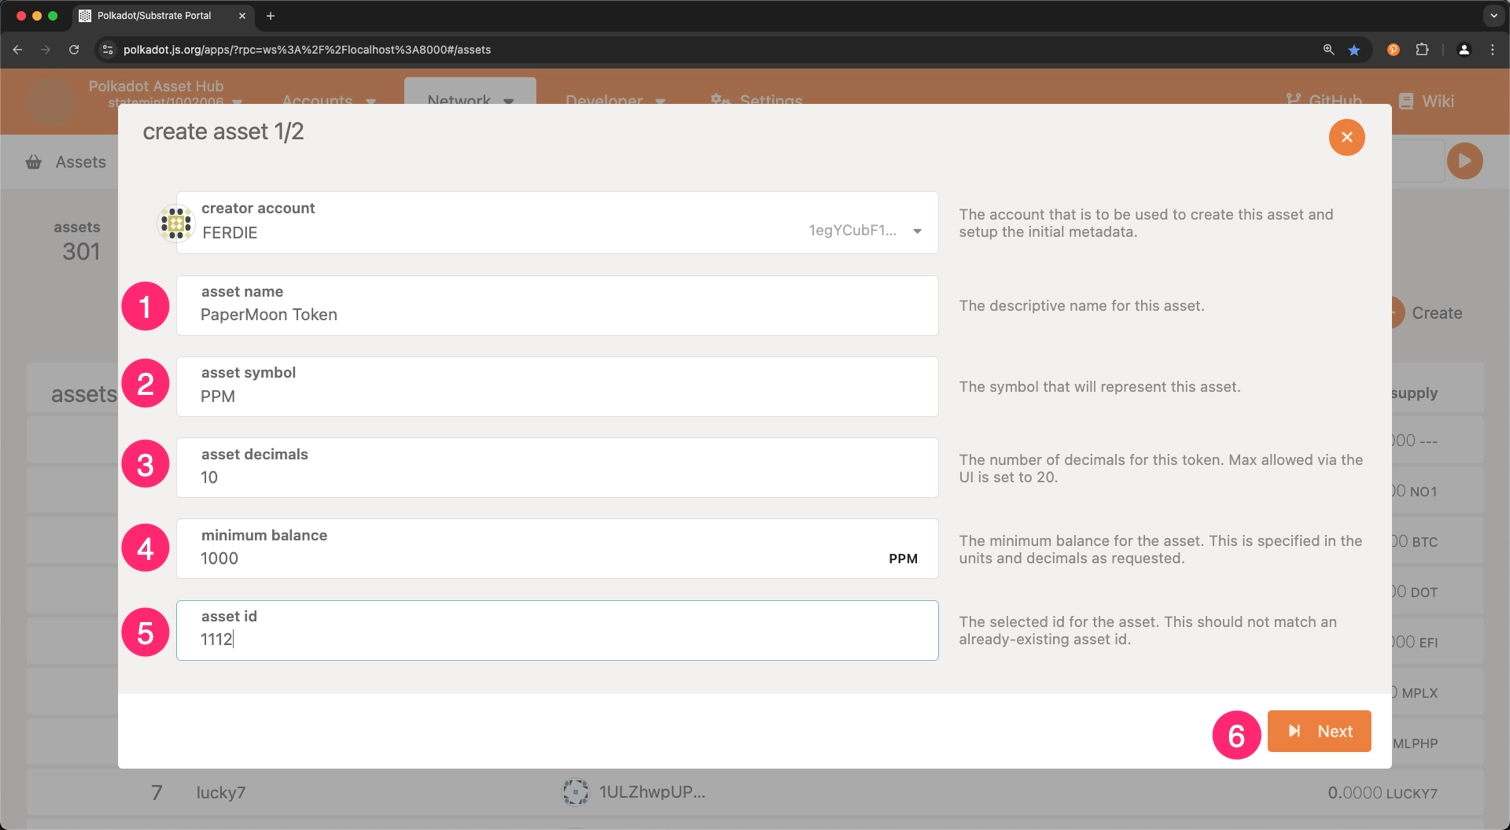
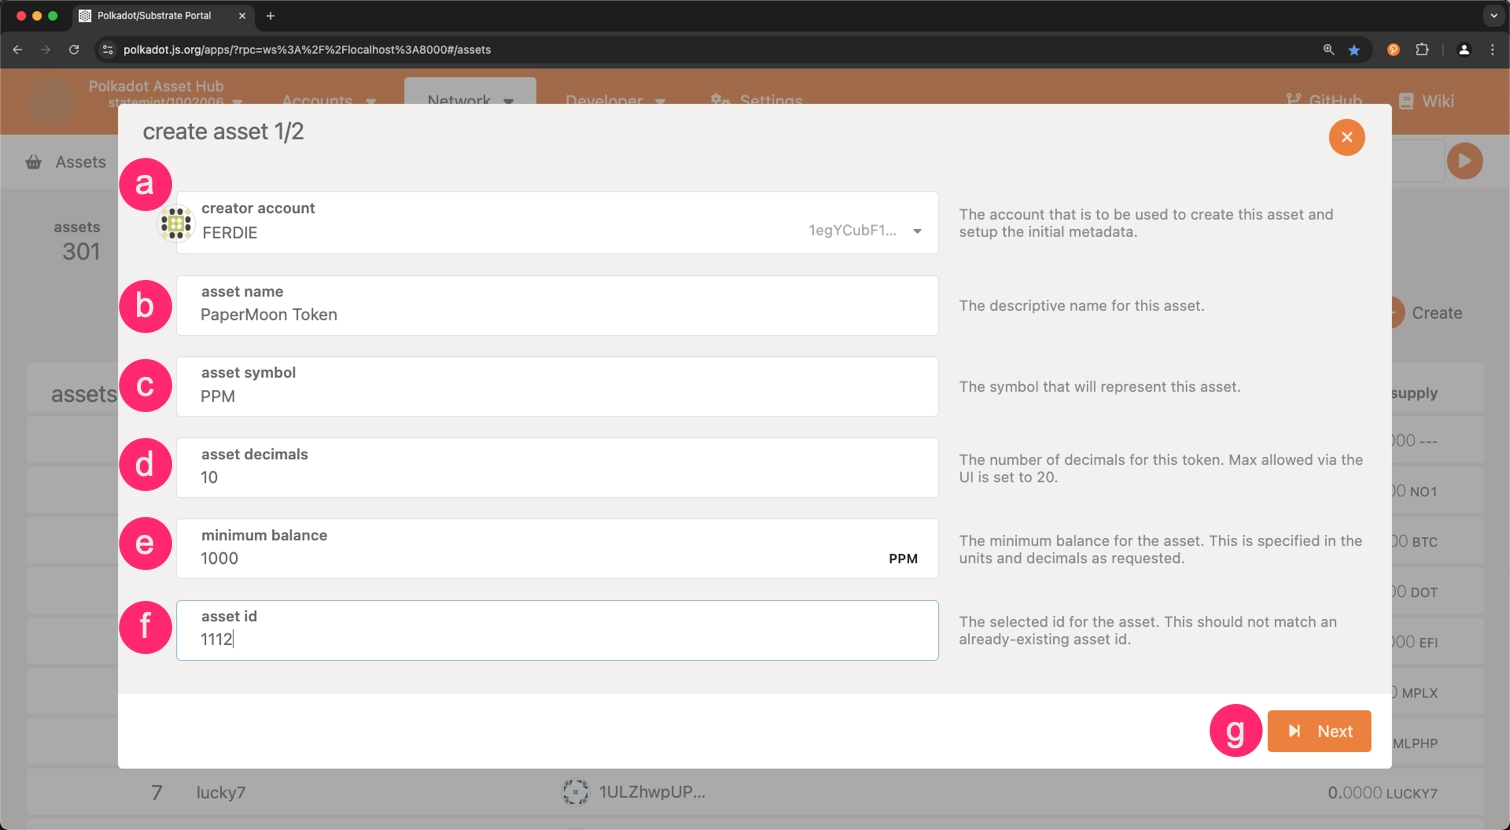
fix: updating steps on local assets registration

diff --git a/docs/build-on-polkadot/parachains/asset-hub/register-a-local-asset.md b/docs/build-on-polkadot/parachains/asset-hub/register-a-local-asset.md
@@ -41,26 +41,28 @@ To register a local asset on the Asset Hub parachain, follow these steps:
 
       ![Create a new asset](/polkadot-ecosystem-docs-draft/images/building-on-polkadot/parachains/asset-hub/register-a-local-asset/register-a-local-asset-3.webp)
 
-5. Fill in the required fields in the **Create Asset** form and click on the **Next** button
+5. Fill in the required fields in the **Create Asset** form:
 
-    - **creator account** - the account to be used for creating this asset and setting up the initial metadata
-    - **asset name** - the descriptive name of the asset you are registering
-    - **asset symbol** - the symbol that will be used to represent the asset
-    - **asset decimals** - the number of decimal places for this token, with a maximum of 20 allowed through the user interface
-    - **minimum balance** - the minimum balance for the asset. This is specified in the units and decimals as requested
-    - **asset ID** - the selected id for the asset. This should not match an already-existing asset id
+    1. **creator account** - the account to be used for creating this asset and setting up the initial metadata
+    2. **asset name** - the descriptive name of the asset you are registering
+    3. **asset symbol** - the symbol that will be used to represent the asset
+    4. **asset decimals** - the number of decimal places for this token, with a maximum of 20 allowed through the user interface
+    5. **minimum balance** - the minimum balance for the asset. This is specified in the units and decimals as requested
+    6. **asset ID** - the selected id for the asset. This should not match an already-existing asset id
+    7. Click on the **Next** button
  
     ![Create Asset Form](/polkadot-ecosystem-docs-draft/images/building-on-polkadot/parachains/asset-hub/register-a-local-asset/register-a-local-asset-4.webp)
 
-6. Select the **admin account**, **issuer-account** and **freezer-account**, and then click on the **Create** button
+6. Choose the accounts for the roles listed below:
 
-    - **admin account** - the account designated for continuous administration of the token      
-    - **issuer account** - the account that will be used for issuing this token
-    - **freezer account** - the account that will be used for performing token freezing operations
+    1. **admin account** - the account designated for continuous administration of the token      
+    2. **issuer account** - the account that will be used for issuing this token
+    3. **freezer account** - the account that will be used for performing token freezing operations
+    4. Click on the **Create** button
 
     ![Admin, Issuer, Freezer accounts](/polkadot-ecosystem-docs-draft/images/building-on-polkadot/parachains/asset-hub/register-a-local-asset/register-a-local-asset-5.webp)
 
-7. Finally, click on the **Sign and Submit** button to complete the asset registration process
+7. Click on the **Sign and Submit** button to complete the asset registration process
 
     ![Sign and Submit](/polkadot-ecosystem-docs-draft/images/building-on-polkadot/parachains/asset-hub/register-a-local-asset/register-a-local-asset-6.webp)
 
